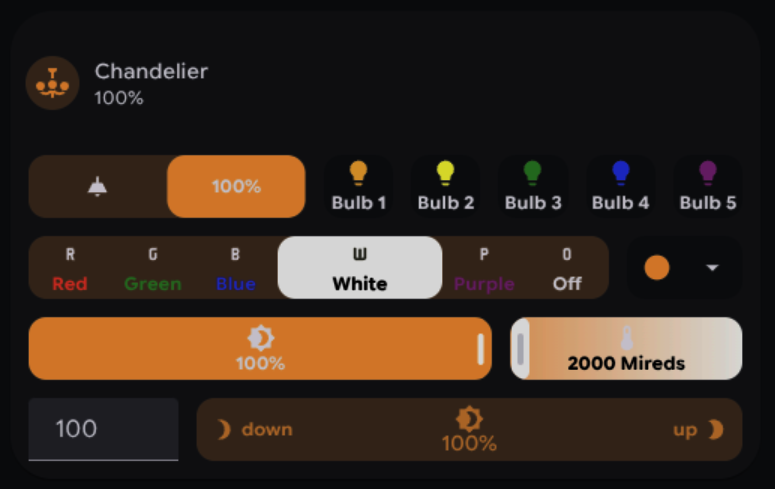
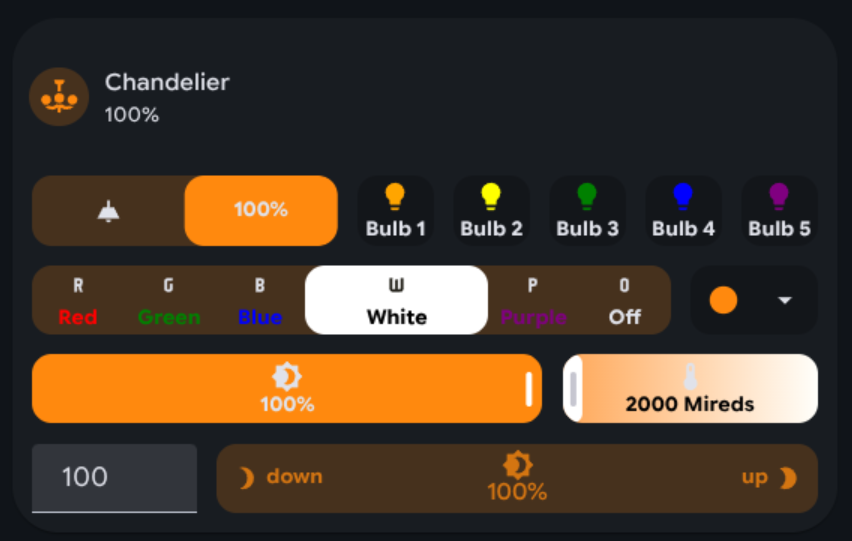
update example tile

diff --git a/README.md b/README.md
@@ -53,7 +53,7 @@ You can override the default behavior of each option by changing their action. T
 
 You can also choose to not give any of the dropdown options `Option` values, so that none are ever marked as the selected option. This makes it so that the default dropdown icon and label are always displayed, and the dropdown feature becomes more of a menu for firing different actions rather than one for selecting an option.
 
-Instead of defining every option manually, you can also generate them from an entity attribute that contains a list (such as a light's `effect_list`) or from a template. This is useful for entities with long, dynamic attribute lists. See [Dynamic Options](#dynamic-options) below and [Example 9](#example-9).
+Instead of defining every option manually, you can also generate them from an entity attribute that contains a list (such as a light's `effect_list`) or from a template. This is useful for entities with long, dynamic attribute lists. See [Dynamic Options](#dynamic-options) below.
 
 ## Inputs
 
@@ -2348,131 +2348,6 @@ layout_options:
 </details>
 
 ## Example 8
-
-Google Home app inspired light button and slider.
-
-<img src="https://raw.githubusercontent.com/Nerwyn/custom-card-features/main/assets/google_home_like_light.png" width="600"/>
-
-<details>
-
-<summary>Config</summary>
-
-```yaml
-type: custom:custom-features-card
-features:
-  - type: custom:service-call
-    entries:
-      - type: button
-        entity_id: light.sunroom_ceiling
-        icon: >-
-          {{ (state_attr(config.entity, 'icon')) + ('' if
-          is_state(config.entity, 'on') else '-outline')}}
-        toggle_styles: true
-        label: >-
-          {{ state_attr(config.entity, 'friendly_name')  |  regex_replace('Lights?',
-          '')  }}
-
-          {{ value | capitalize }}
-        tap_action:
-          action: perform-action
-          perform_action: light.toggle
-          target:
-            entity_id:
-              - '{{ config.entity }}'
-          data: {}
-        hold_action:
-          action: more-info
-        styles: |-
-          :host {
-            justify-content: flex-start;
-          }
-          :host([value='on']) {
-            --color: var(--on-color);
-            --icon-color: var(--on-on-color);
-            --label-color: var(--on-on-color);
-          }
-          .label {
-            display: inline-flex;
-            font-size: 15px;
-            line-height: 18px;
-            font-weight: 700;
-          }
-        thumb: md3-filled
-        hold_action:
-          action: more-info
-          target:
-            entity_id: light.sunroom_ceiling
-          data: {}
-      - type: slider
-        entity_id: light.sunroom_ceiling
-        tap_action:
-          action: perform-action
-          target:
-            entity_id:
-              - '{{ config.entity }}'
-          perform_action: >-
-            light.{{ 'toggle' if (currentX - initialX) | abs < 5 else 'turn_on'
-            }}
-          data: |-
-            {% if (currentX - initialX) | abs >= 5  %}
-            brightness_pct: '{{ value }}'
-            {% endif %}
-        range:
-          - 0
-          - 100
-        step: 1
-        icon: >-
-          {{ (state_attr(config.entity, "icon")) + ("-outline" if not
-          is_state(config.entity, "on") else "") }}
-        styles: |-
-          .container:not(.off),
-          .container:not(.off) ~ .md3-thumb {
-            --color: var(--on-color);
-            --background: var(--on-background-color);
-            --icon-color: var(--on-on-color);
-            --label-color: var(--on-on-color);
-          }
-          .icon-label {
-            padding-inline-start: 16px;
-          }
-          .label {
-            display: inline-flex;
-            font-size: 15px;
-            line-height: 18px;
-          }
-        label: >-
-          {{ state_attr(config.entity, 'friendly_name')  |
-          regex_replace('Lights?', '')  }}
-
-          {{ (states(config.entity) | capitalize) if not is_state(config.entity,
-          'on') else value + unit }}
-        thumb: md3-slider
-        value_attribute: brightness
-        unit_of_measurement: '%'
-    styles: |-
-      :host {
-        margin-bottom: 0;
-      }
-      :host([theme='dark']) {
-        --on-color: #50462a;
-        --on-on-color: #ffe082;
-        --on-background-color: #33302a;
-      }
-      :host([theme='light']) {
-        --on-color: #ffe082;
-        --on-on-color: #745b00;
-        --on-background-color: #ffefc9;
-      }
-feature_height: 96
-grid_options:
-  columns: 12
-  rows: auto
-transparent: true
-```
-
-</details>
-
-## Example 9
 
 Generating dropdown options dynamically from a light entity's `effect_list` attribute.
 
